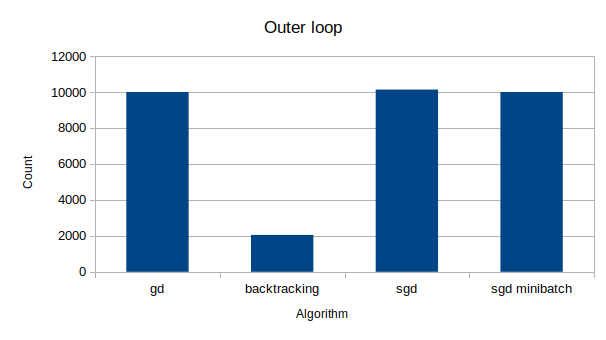
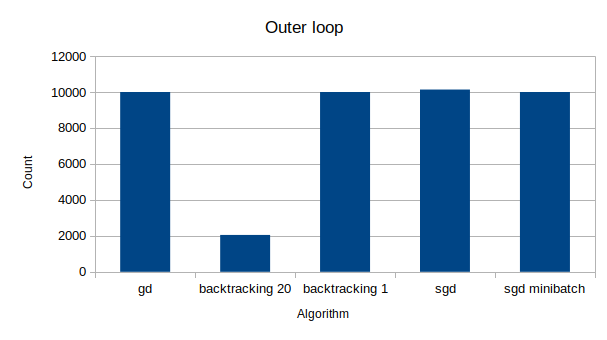
rebench

diff --git a/voice_gender/main.py b/voice_gender/main.py
@@ -28,7 +28,7 @@ def load_data():
     one = np.ones((X.shape[0], 1))
     X = np.concatenate((one, X), axis=1)
 
-    X_train, X_test, y_train, y_test = train_test_split(X, y, test_size=0.2)
+    X_train, X_test, y_train, y_test = train_test_split(X, y, test_size=0.2, random_state=42)
     return X_train, y_train, X_test, y_test
 
 
@@ -42,23 +42,23 @@ def test_sklearn(loop, X_train, X_test, y_train, y_test):
     print(f'sklearn accuracy: {rg.accuracy_sk(X_test[:, 1:21], y_test, logreg)}')
 
 
-def test_gd(loop, X_train, X_test, y_train, y_test):
+def test_gd(loop, X_train, X_test, y_train, y_test, solver):
     y_train = y_train.reshape((X_train.shape[0], 1))
     y_test = y_test.reshape((X_test.shape[0], 1))
     eta = 0.05
     # w_init = np.ones((X_train.shape[1], 1))
     w_init = np.random.randn(X_train.shape[1], 1)
-    gdlogreg = rg.LogisticRegressionOpt(solver='gd',
+    gdlogreg = rg.LogisticRegressionOpt(solver=solver,
                                         tol=1e-2,
                                         max_iter=10000,
-                                        step_size=0.05,
+                                        step_size=1,
                                         batch_size=100,
                                         check_after=10)
     t1 = time.time()
     for i in range(loop):
         gdlogreg.fit(X_train, y_train, w_init)
     t2 = time.time()
-    print(f'complete in {(t2 - t1) / loop}, count: {gdlogreg.count}, inner count: {gdlogreg.inner_count}')
+    print(f'{solver} - complete in {(t2 - t1) / loop}, count: {gdlogreg.count}, inner count: {gdlogreg.inner_count}')
     # print(f'complete in {(t2 - t1) / loop}, count: {gdlogreg.count}, inner count: {gdlogreg.inner_count},'
     #       f' final cost: {gdlogreg.cost_list[-1]}, '
     #       f'grad norm: {np.linalg.norm(gdlogreg.grad)}')
@@ -108,8 +108,11 @@ def plot_multiple(col, x_label, y_label, title):
 
 
 if __name__ == '__main__':
-    # X_train, y_train, X_test, y_test = load_data()
-    # loop = 10
-    # test_sklearn(loop, X_train, X_test, y_train, y_test)
-    # test_gd(loop, X_train, X_test, y_train, y_test)
-    plot_multiple('loss_func', 'Count', 'Value', 'Loss function')
+    X_train, y_train, X_test, y_test = load_data()
+    loop = 10
+    test_sklearn(loop, X_train, X_test, y_train, y_test)
+    # for solver in ['gd', 'sgd', 'sgd_batch']:
+    #     test_gd(loop, X_train, X_test, y_train, y_test, solver)
+
+    test_gd(loop, X_train, X_test, y_train, y_test, 'bgd')
+    # plot_multiple('loss_func', 'Count', 'Value', 'Loss function')

diff --git a/voice_gender/regression.py b/voice_gender/regression.py
@@ -193,11 +193,11 @@ class LogisticRegressionOpt:
 
     def cal_metrics(self, X, grad_norm, y):
         pass
-        y_pred = predict(X, self.w)
-        cost = calc_error(y_pred, y)
-        self.cost_list.append(cost)
-        # disable this in benchmark
-        if self.count % self.check_after == 0:
-            print(f'count: {self.count}, cost: {cost}, grad norm: {grad_norm}')
-        self.grad_norm_list.append(grad_norm)
+        # y_pred = predict(X, self.w)
+        # cost = calc_error(y_pred, y)
+        # self.cost_list.append(cost)
+        # # disable this in benchmark
+        # if self.count % self.check_after == 0:
+        #     print(f'count: {self.count}, cost: {cost}, grad norm: {grad_norm}')
+        # self.grad_norm_list.append(grad_norm)
 
